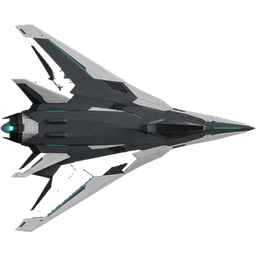
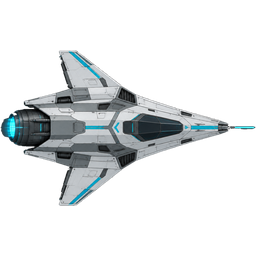
第47弾b: 自艦の潜航型スプライトをコンパクトで明るい絵に差し替え
Claude-Session: https://claude.ai/code/session_01JhR5z5pbpMjPLdDtvMr527

Changed region(s): [[0.0, 0.0938, 1.0, 0.9062]]

diff --git a/prototype/index.html b/prototype/index.html
@@ -14,7 +14,7 @@
     <link rel="manifest" href="manifest.webmanifest">
     <meta name="theme-color" content="#020a06">
     <!-- ?v= は game.js/style.css を変更するたびに必ず更新する (キャッシュバスティング) -->
-    <link rel="stylesheet" href="style.css?v=20261108b">
+    <link rel="stylesheet" href="style.css?v=20261108c">
     <link
         href="https://fonts.googleapis.com/css2?family=Orbitron:wght@400;700&family=Inter:wght@300;400;600&display=swap"
         rel="stylesheet">
@@ -772,7 +772,7 @@
     </div>
 
     <!-- ?v= は game.js を変更するたびに必ず更新する (ブラウザ/GitHub Pagesのキャッシュ対策) -->
-    <script src="game.js?v=20261108b"></script>
+    <script src="game.js?v=20261108c"></script>
     <script>
     // アイコンボタン ↔ hidden select の同期
     function setupIconSelect(groupId, selectId) {

diff --git a/prototype/game.js b/prototype/game.js
@@ -410,7 +410,7 @@ const ENGINE_THRUST = {
 // 移動時のみCanvasグロー描画。スプライト自体にはスラスター不要（船体のみ生成）。
 const THRUSTER_DEFS = { // 第47弾: 新スプライト (Higgsfield・Star Citizen風) の噴射口に合わせて実測
     assault: [[-0.93,-0.51],[-0.93, 0.47]],                                            // 2基 (大型ナセル)
-    stealth: [[-0.93, 0.0]],                                                           // 1基
+    stealth: [[-0.92, 0.0]],                                                           // 1基 (第47弾b: コンパクトな絵に差し替え)
     carrier: [[-0.96,-0.32],[-0.96,-0.17],[-0.96, 0.0],[-0.96, 0.17],[-0.96, 0.34]],  // 5基
 };
 
